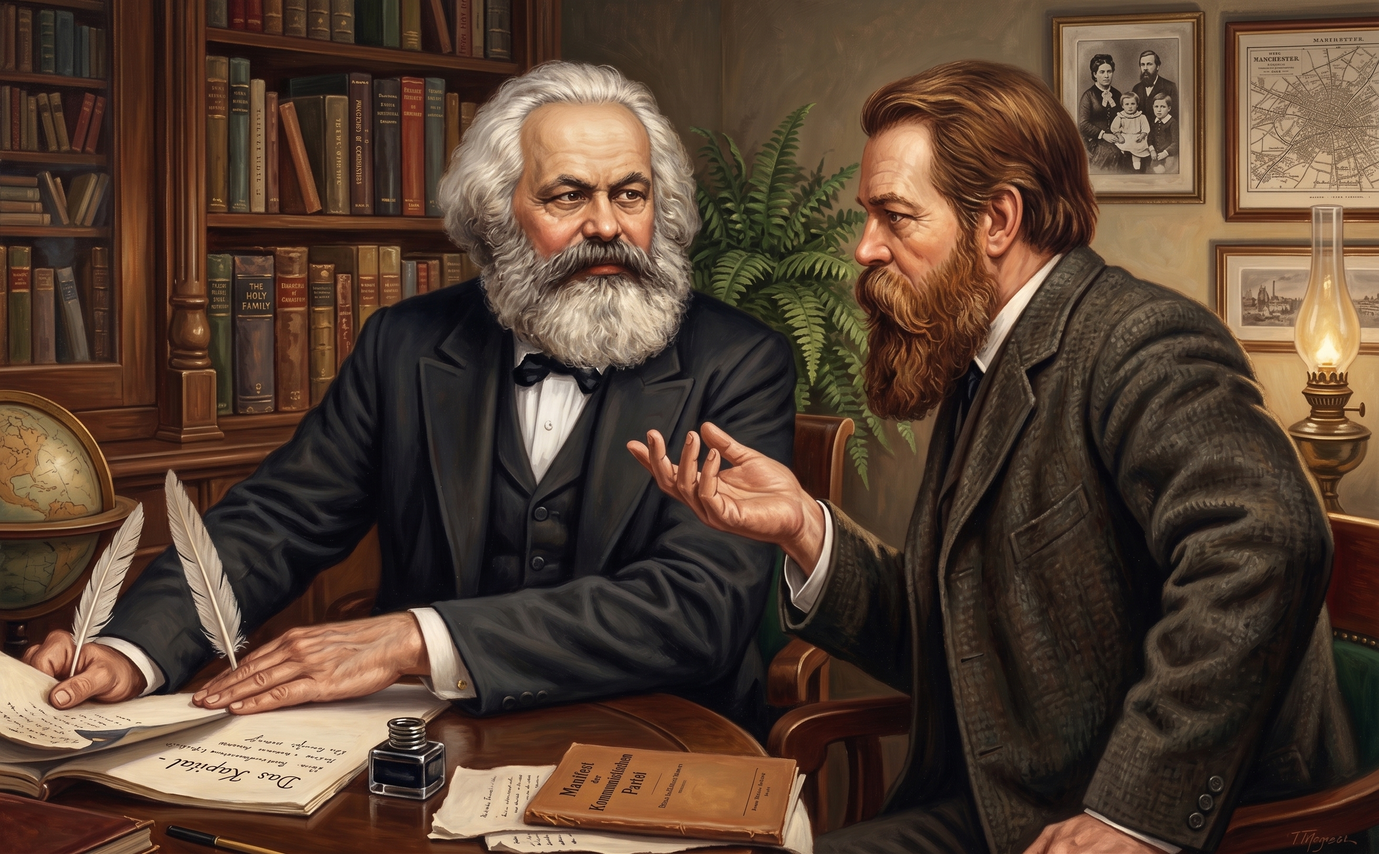
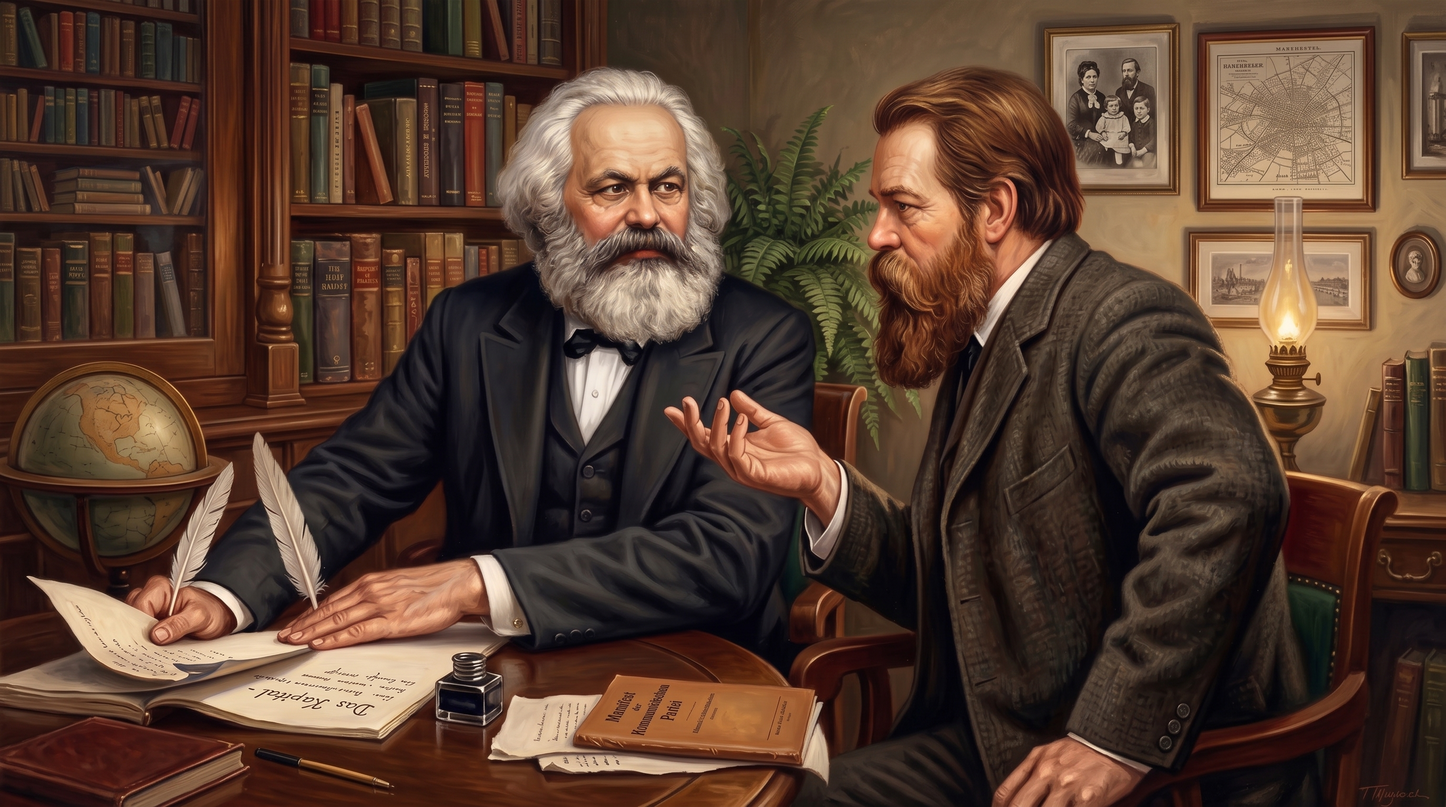
docs: 马克思主义哲学合并什么是哲学内容并更新封面

diff --git a/docs/knowledge-planet/marxism/马克思主义哲学/index.md b/docs/knowledge-planet/marxism/马克思主义哲学/index.md
@@ -5,9 +5,86 @@ weight: 20
 ---
 # 马克思主义哲学
 
-## Contents
+**哲学是系统化理论化的世界观**。哲学是哲学家依据一定的自然知识、社会知识和思维知识，把不自觉的、不系统的世界观加以系统化、理论化而形成的思想体系。
 
-- [什么是哲学](/knowledge-planet/marxism/马克思主义哲学/什么是哲学)
+它同人们在日常生活中产生的零散的、不自觉的世界观既有联系，又有区别。我们既反对把哲学简单化，把零散的、不自觉的世界观当作哲学学说，也反对把哲学神秘化，认为哲学与普通人无关。
+
+## 世界观与方法论
+
+哲学既是**世界观**，也是**方法论**。人们关于世界是什么、怎么样的根本观点是世界观，用这种观点作指导去认识世界和改造世界，就成了方法论。一般说来，**世界观决定方法论，方法论体现世界观**，有什么样的世界观就有什么样的方法论。不存在脱离世界观的方法论，也不存在脱离方法论的世界观。**哲学是世界观和方法论的统一**。
+
+## 哲学是对自然、社会和思维知识的概况和总结
+
+人类在实践中逐渐形成了各种各样的具体知识，这些知识大致可以概括为三类：
+
+1. 认识和改造自然的知识，即**自然科学**知识，如物理学、化学、生物学等；
+2. 认识和改造社会的知识，即**社会科学**知识，如经济学、政治学、法学等；
+3. 关于人的认识和思维的知识，即**思维科学**知识，如心理学、逻辑学等。
+
+具体科学揭示的是自然、社会和思维某一具体领域的规律，哲学则对其进行概括和升华，从中抽象出最一般的本质和最普遍的规律。
+
+## 哲学的基本问题及不同流派
+
+### 哲学基本问题的两个方面
+
+1. 物质和意识何者为第一性（思维和存在何者为第一性）
+
+- **唯物主义**：先有物质后有意识
+- **唯心主义**：先有意识后有物质
+
+2. 物质和意识是否具有同一性（思维和存在是否具有同一性）
+
+- **可知论**：人的意识可以认识客观世界
+- **不可知论**：人的意识不可以认识客观世界
+
+### 哲学不同流派的区别和联系
+
+一般认为，唯物主义者、唯心主义者都是可知论者。二元论者是不可知论者，但一般称二元论者为不彻底的唯心主义者。
+
+#### 唯心主义
+
+1. 主观唯心主义：王阳明（心外无物）、笛卡尔（我思故我在）
+2. 客观唯心主义：朱熹（理在事先）、老子（道法自然）
+3. 二元论（不彻底的唯心主义）：柏拉图
+
+#### 唯物主义
+
+1. （古代）朴素唯物主义：总是把某种或具体的物质形态看作是世界的物质本原的物质基础
+2. （近代）形而上学唯物主义（机械唯物主义）：单纯地认为物质是由原子或分子构成
+3. 辨证唯物主义：物质是一切客观实在
+
+::: info
+**形而上学**
+
+形而上学是指对世界本质的研究，即研究一切存在者，一切现象（尤其指抽象概念）的原因及本源。形而上学是一个从西方哲学翻译而来的概念，最早由亚里士多德构建。
+
+形而上学的英文名为 `metaphysics`，是一个合成词，即 `meta` + `physics` ，直译为“物质的本源”。形而上学的翻译源自于日本。日本在近代以来积极向西方国家学习，西方的很多概念特别是西方哲学的概念大都由日本人翻译，而他们在翻译 `metaphysics` 时是根据中国古代《易经》中的“形而上者谓之道，形而下者谓之器”进行翻译。在道家思想中，“道”的含义和西方古典哲学的含义十分相近，都是追求世界的本源。
+
+显然，中国先秦时代的“形而上学”和马克思主义所批判的形而上学并不是一回事。马克思主义所批判的准确来说应当是机械唯物主义，即把自然世界的万物都看作是客观存在的物质，但一旦涉及到人类社会却又是唯心的。马克思的历史唯物主义实现了历史性、唯物性和辩证性的相互贯穿和内在统一，终结了形而上学的本体论，开启了后形而上学存在论的新视野。
+
+**唯物辩证法与形而上学的区别：**
+
+- 形而上学：孤立、片面、静止、无矛盾
+- 唯物辨证法：联系、全面、发展、矛盾
+:::
+
+不管是唯物主义还是唯心主义，不管是可知论还是不可知论，它们都是狭义上哲学的不同流派。马克思主义哲学本身并不是哲学流派的独创，而是对以黑格尔为代表的德国古典哲学（辩证唯物主义）的发展。
+
+::: info
+哲学家们只是用不同的方式解释世界，而问题在于改变世界。
+
+<p align="right">——马克思</p>
+:::
+
+## 马克思主义哲学的基本特征
+
+1. **科学性**：马克思主义是对自然、社会和人类思维发展本质和规律的正确反映。马克思主义之所以是科学的，就在于它正确揭示了世界的本质和运动规律，它的全部理论都来自实践，又经过实践的反复检验。
+2. **革命性（阶级性）**：马克思主义的革命性集中表现为它的彻底的批判精神和鲜明的无产阶级立场。马克思主义哲学之所以是（无产）阶级的，就在于它是改变世界的科学、指导人类解放的科学，是无产阶级的科学的世界观和方法论。
+3. **实践性**：马克思主义是从实践中来，到实践中去，在实践中接受检验，并随实践而不断发展的学说。马克思主义具有突出的实践精神，它始终强调理论与实践的统一，始终坚持与社会主义实际运动紧密结合。
+4. **发展性**：马克思主义是不断发展的学说，具有与时俱进的理论品质。马克思主义是时代的产物，并随着时代、实践和科学的发展而不断发展。
+
+## 马克思主义哲学的理论组成
+
 - [辩证唯物论](/knowledge-planet/marxism/马克思主义哲学/辩证唯物论)
 - [唯物辩证法](/knowledge-planet/marxism/马克思主义哲学/唯物辩证法)
 - [唯物史观](/knowledge-planet/marxism/马克思主义哲学/唯物史观)
